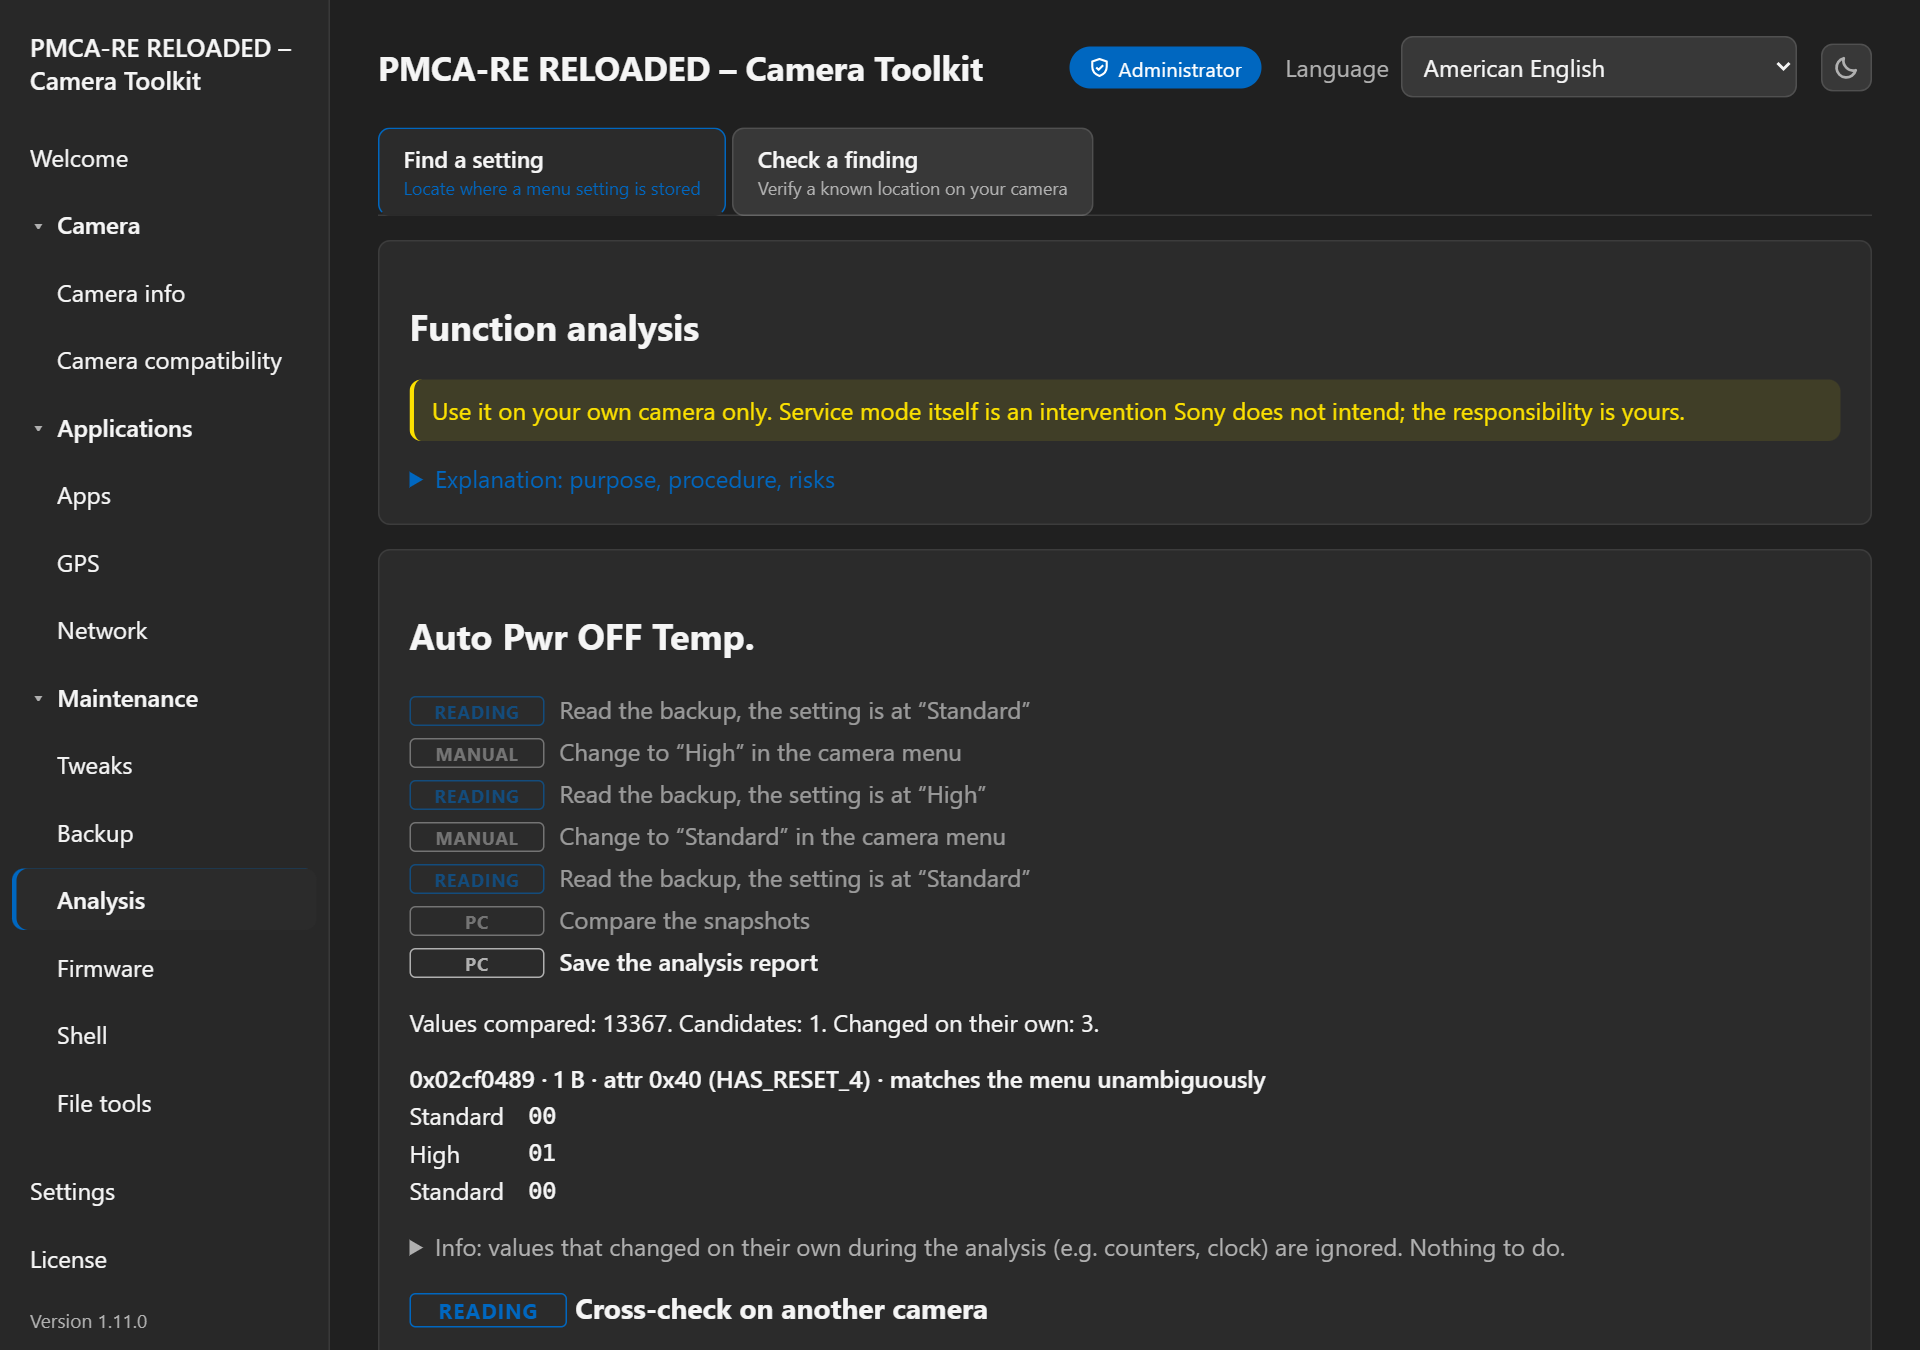
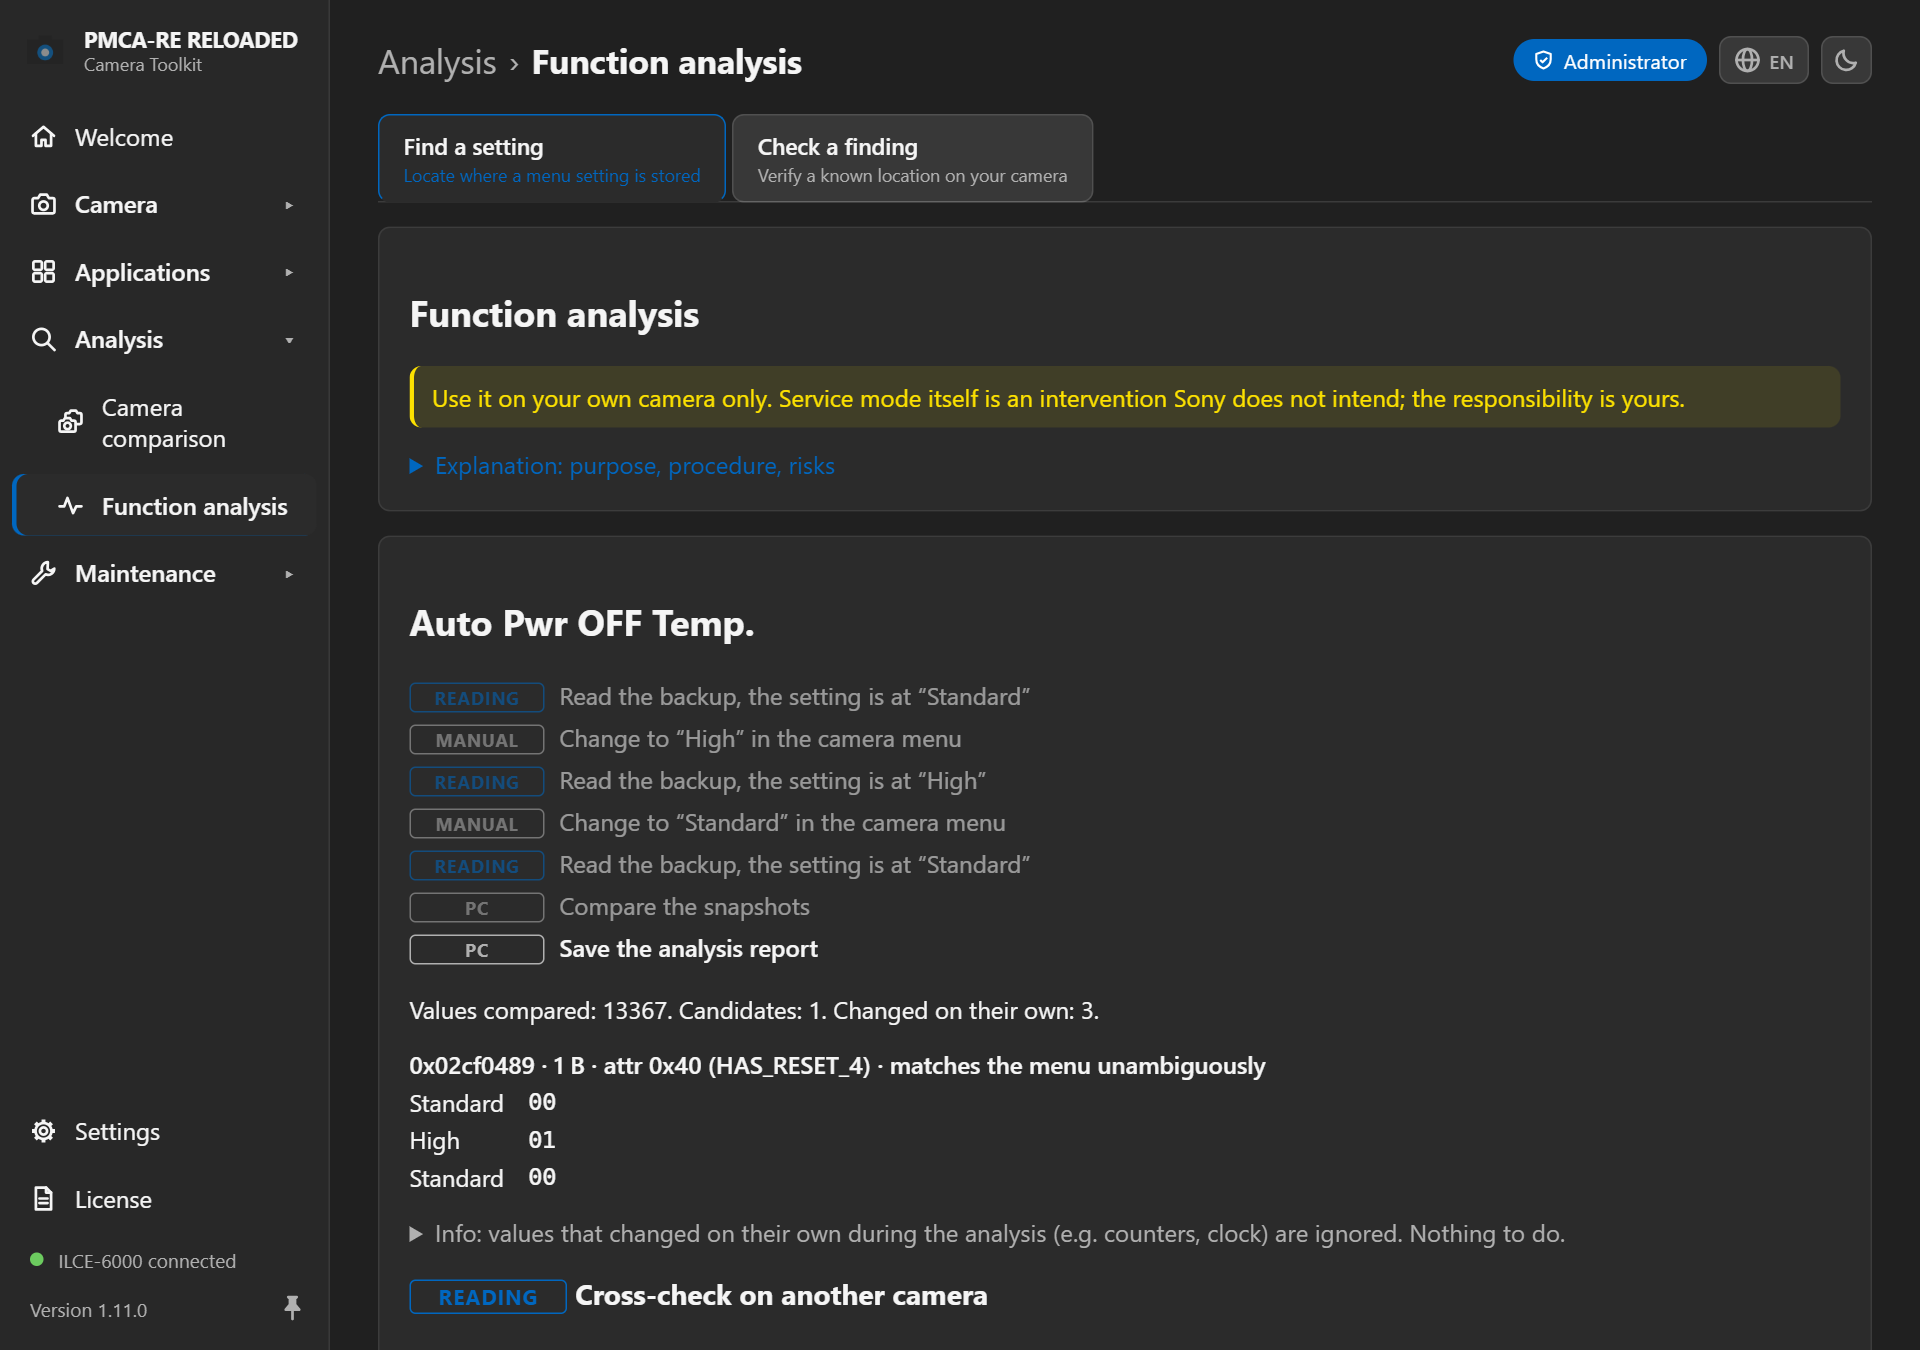
Release 1.11.0: camera comparison, folding navigation, macOS mass storage
Merges the four 1.11.0 release candidates into one changelog section, adds pictures of the camera comparison, and moves the maintainer-side exclusions from .git/info/exclude into .gitignore so they also hold on a fresh clone.

diff --git a/crates/pmca-gui/src/views/compare.ts b/crates/pmca-gui/src/views/compare.ts
@@ -222,7 +222,7 @@ export function viewCompare(host: HTMLElement): void {
   };
 
   countField.addEventListener("change", () => {
-    want = Math.min(MAX_SOURCES, Math.max(2, countField.valueAsNumber || 2));
+    want = Math.min(MAX_SOURCES, Math.max(2, Math.trunc(countField.valueAsNumber) || 2));
     countField.value = String(want);
     refresh();
   });
@@ -489,12 +489,14 @@ function findingsHelp(): HTMLDetailsElement {
 // Collecting dumps
 // ---------------------------------------------------------------------------
 
-function checkboxRow(box: HTMLInputElement, labelKey: string, hintKey: string | null): HTMLElement {
-  const row = make(
-    "div",
-    { className: "cmp-way" },
-    make("label", { className: "row" }, box, make("span", { i18n: labelKey })),
-  );
+function checkboxRow(
+  box: HTMLInputElement,
+  labelKey: string,
+  hintKey: string | null,
+  label?: string,
+): HTMLElement {
+  const text = label === undefined ? make("span", { i18n: labelKey }) : make("span", { textContent: label });
+  const row = make("div", { className: "cmp-way" }, make("label", { className: "row" }, box, text));
   if (hintKey !== null) row.append(make("p", { className: "hint", i18n: hintKey }));
   return row;
 }
@@ -786,7 +788,12 @@ function exportSection(report: CompareReport, visible: Set<Cls>, status: HTMLEle
     { className: "cmp-export" },
     make("h3", { i18n: "compare-export-heading" }),
     make("p", { textContent: trFill("compare-export-shown", { count: shownRows }) }),
-    checkboxRow(all, "compare-export-all", "compare-export-all-hint"),
+    checkboxRow(
+      all,
+      "compare-export-all",
+      "compare-export-all-hint",
+      trFill("compare-export-all", { count: report.total }),
+    ),
     checkboxRow(onlyWritable, "compare-only-writable", "compare-only-writable-hint"),
     checkboxRow(onlyNamed, "compare-only-named", "compare-only-named-hint"),
     checkboxRow(onlySwitches, "compare-only-switches", "compare-only-switches-hint"),

diff --git a/docs/index.html b/docs/index.html
@@ -29,7 +29,7 @@
   "description": "Desktop toolkit for Sony cameras over USB: camera information, shutter count, installing PlayMemories camera apps, firmware updates and access to the camera's settings memory. A from-scratch Rust implementation of the ideas of Sony-PMCA-RE.",
   "applicationCategory": "UtilitiesApplication",
   "operatingSystem": "Windows, macOS, Linux",
-  "softwareVersion": "1.9.0",
+  "softwareVersion": "1.11.0",
   "license": "https://opensource.org/licenses/MIT",
   "url": "https://masterflai.github.io/pmca-re-reloaded/",
   "downloadUrl": "https://github.com/masterflai/pmca-re-reloaded/releases/latest",
@@ -151,6 +151,13 @@ footer { border-top: 1px solid var(--border); padding: 28px 0 48px; color: var(-
         <img src="images/app-install-light.png" width="1920" height="1350" alt="Apps page installing three selected camera apps from several app sources" loading="lazy">
       </picture>
       <figcaption>Installing camera apps from the app sources</figcaption>
+    </figure>
+    <figure style="margin:0">
+      <picture>
+        <source media="(prefers-color-scheme: dark)" srcset="images/compare-dark.png">
+        <img src="images/compare-light.png" width="1920" height="1350" alt="Camera comparison: two settings stores side by side, each property marked as the same, nearly the same, different, stored at a different length or missing (example data)" loading="lazy">
+      </picture>
+      <figcaption>Comparing the settings memory of two cameras</figcaption>
     </figure>
   </div>
 </header>

diff --git a/crates/pmca-app/src/compare.rs b/crates/pmca-app/src/compare.rs
@@ -151,7 +151,7 @@ pub struct FreeSpaceView {
     pub largest_gap: usize,
     /// How many unclaimed runs there are in total.
     pub gap_count: usize,
-    /// The largest of them, at most [`MAX_GAPS`].
+    /// The largest of them, at most `MAX_GAPS`.
     pub gaps: Vec<GapView>,
     /// Bytes past the end the header declares; outside the checksum.
     pub trailing: usize,
@@ -747,7 +747,7 @@ fn class_label(l: &Localizer, class: &str) -> String {
     if text == key { class.to_string() } else { text }
 }
 
-/// Spaced hex cut to [`TEXT_VALUE_BYTES`], so one long array cannot push every
+/// Spaced hex cut to `TEXT_VALUE_BYTES`, so one long array cannot push every
 /// other column off the line.
 fn shorten(hex: &str) -> String {
     let bytes: Vec<&str> = hex.split_whitespace().collect();

diff --git a/CHANGELOG.md b/CHANGELOG.md
@@ -4,7 +4,7 @@ All notable changes to this project are documented here. The format follows
 [Keep a Changelog](https://keepachangelog.com/en/1.1.0/), and the project uses
 [Semantic Versioning](https://semver.org/).
 
-## [Unreleased]
+## [1.11.0] - 2026-11-09
 
 ### Fixed
 
@@ -43,6 +43,21 @@ All notable changes to this project are documented here. The format follows
   order, because the request that ends the mode is a USB transfer and needs a
   binding to travel on. Reported and confirmed on a NEX-6 in
   [#7](https://github.com/masterflai/pmca-re-reloaded/issues/7).
+- macOS: the program now takes over the camera's mass storage the way libusb
+  does — capturing the device through IOKit's IOUSBLib and claiming the
+  interface directly — instead of going through IOUSBHost, which could not open
+  the interface on macOS 26. A probe built with real libusb confirmed this path
+  reaches the camera there as root. The IOUSBHost capture stays as a fallback,
+  and the macOS diagnostic probe gained a step that exercises the new path on
+  its own.
+- macOS: when the camera cannot be taken over, the message names other
+  programs that have the camera open, such as a web browser, and asks to close
+  them. The diagnostic trace shows which program opened each connection.
+- macOS: switching to service mode right after the camera came up in mass
+  storage failed with a USB transfer error. The program now waits until macOS
+  has finished setting up the camera before taking it over, and if the camera
+  still refuses, it resets the camera and tries again up to two more times.
+  Other interfaces that macOS holds are now taken over the same way.
 
 ### Added
 
@@ -76,9 +91,14 @@ All notable changes to this project are documented here. The format follows
   page says plainly what that free space is not — the settings store is read by
   the camera's own firmware, so a byte written where no property lives is a
   byte nobody reads.
-- The serial number is left out of a dump unless it is asked for, because these
-  files are made to be exchanged. A short digest still lets two dumps of the
-  same camera recognise each other without carrying the number itself.
+- The serial number, the photographer and the copyright holder are left out of a
+  dump unless they are asked for, because these files are made to be exchanged.
+  The dump says in plain words which of them it is missing, so whoever receives
+  one can see it. A short digest still lets two dumps of the same camera
+  recognise each other without carrying the serial number itself.
+- Adding a connected camera to a comparison says so when no camera is answering,
+  instead of starting a read that takes minutes and then failing. The check only
+  looks at what the operating system lists and opens no device.
 - The navigation can be unpinned with the pin next to the version number or
   Ctrl+B. It then folds down to a strip of icons and opens over the page when
   the pointer rests on it, when the program icon at its top is clicked or when
@@ -95,36 +115,14 @@ All notable changes to this project are documented here. The format follows
   system lists and opens no device, so it never disturbs a running operation.
 - The language choice sits next to the theme switch as a globe with the
   language code.
-
-## [1.11.0-rc.4] - 2026-11-07
-
-**Pre-release for testing mass-storage access on macOS 26 (service mode,
-tweaks, function analysis, firmware, updater).**
-
-### Fixed
-
-- macOS: the program now takes over the camera's mass storage the way libusb
-  does — capturing the device through IOKit's IOUSBLib and claiming the
-  interface directly — instead of going through IOUSBHost, which could not open
-  the interface on macOS 26. A probe built with real libusb confirmed this path
-  reaches the camera there as root. The IOUSBHost capture stays as a fallback,
-  and the macOS diagnostic probe gained a step that exercises the new path on
-  its own.
-
-## [1.11.0-rc.3] - 2026-11-06
-
-**Pre-release for testing service mode on macOS 26; replaces rc.2.**
-
-### Fixed
-
-- macOS: when the camera cannot be taken over, the message names other
-  programs that have the camera open, such as a web browser, and asks to close
-  them. The diagnostic trace shows which program opened each connection.
-
-## [1.11.0-rc.2] - 2026-11-06
-
-**Pre-release for testing service mode (Tweaks, service shell, function
-analysis) on macOS 26.**
+- *Show the Application menu* on the Tweaks page (`tweaks --enable appMenu` on
+  the command line). Some region presets of NEX-6, NEX-5R and NEX-5T hide the
+  menu for installed apps, and with it the option to put an app on the AEL
+  button or soft key B. The switch is offered only on these three models and
+  only while the setting holds one of its two known values. Because the camera
+  marks the setting read-only, it is written through the full backup image.
+  Setup → Initialize on the camera turns it off again.
+  ([#7](https://github.com/masterflai/pmca-re-reloaded/issues/7))
 
 ### Changed
 
@@ -134,31 +132,7 @@ analysis) on macOS 26.**
   a virus scanner's false positive from a real problem
   ([#5](https://github.com/masterflai/pmca-re-reloaded/issues/5)).
 - The README and website pictures show the reorganised window, including the
-  function analysis.
-
-### Fixed
-
-- macOS: switching to service mode right after the camera came up in mass
-  storage failed with a USB transfer error. The program now waits until macOS
-  has finished setting up the camera before taking it over, and if the camera
-  still refuses, it resets the camera and tries again up to two more times.
-  Other interfaces that macOS holds are now taken over the same way.
-
-## [1.11.0-rc.1] - 2026-11-03
-
-**Pre-release for testing a switch that brings back the Application menu on
-NEX-6, NEX-5R and NEX-5T.**
-
-### Added
-
-- *Show the Application menu* on the Tweaks page (`tweaks --enable appMenu` on
-  the command line). Some region presets of these models hide the menu for
-  installed apps, and with it the option to put an app on the AEL button or
-  soft key B. The switch is offered only on these three models and only while
-  the setting holds one of its two known values. Because the camera marks the
-  setting read-only, it is written through the full backup image. Setup →
-  Initialize on the camera turns it off again.
-  ([#7](https://github.com/masterflai/pmca-re-reloaded/issues/7))
+  camera comparison and the function analysis.
 
 ## [1.10.0] - 2026-11-03
 
@@ -733,6 +707,6 @@ and Linux.
 - **Device list** in the app with the functions each known model supports,
   plus community reports for further models.
 
-[Unreleased]: https://github.com/masterflai/pmca-re-reloaded/compare/v1.2.0...HEAD
+[1.11.0]: https://github.com/masterflai/pmca-re-reloaded/compare/v1.10.0...v1.11.0
 [1.1.0]: https://github.com/masterflai/pmca-re-reloaded/compare/v1.0.0...v1.1.0
 [1.0.0]: https://github.com/masterflai/pmca-re-reloaded/releases/tag/v1.0.0

diff --git a/README.md b/README.md
@@ -38,6 +38,13 @@
   </picture>
 </p>
 
+<p align="center">
+  <picture>
+    <source media="(prefers-color-scheme: dark)" srcset="docs/images/compare-dark.png">
+    <img src="docs/images/compare-light.png" width="49%" alt="Camera comparison: the settings memory of two cameras side by side, each property marked as the same, nearly the same, different, stored at a different length or missing">
+  </picture>
+</p>
+
 PMCA-RE RELOADED talks to Sony cameras and other Sony imaging devices through
 their USB interfaces — from early NEX and Alpha bodies to current models, and
 from compact cameras to action cameras. What a device offers depends on its
@@ -73,7 +80,7 @@ in Rust, and it needs neither Python nor extra driver tools.
 <p align="center">
   <picture>
     <source media="(prefers-color-scheme: dark)" srcset="docs/images/demo-dark.gif">
-    <img src="docs/images/demo-light.gif" width="720" alt="Short demo: reading the camera info, loading the app list from several sources, installing three apps and opening a finished function analysis">
+    <img src="docs/images/demo-light.gif" width="720" alt="Short demo: reading the camera info, loading the app list from several sources, installing three apps, opening a finished function analysis, comparing the settings memory of two cameras, and folding the navigation down to icons">
   </picture>
 </p>
 
